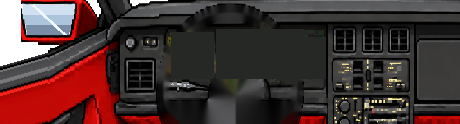
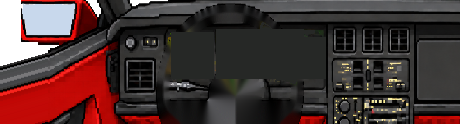
Retrovisores externos funcionando (F40, Corvette e viatura)
Novo src/sidemirror.ts: o vidro do retrovisor esquerdo é achado na arte da cabine
pela cor e, no lugar dele, entra a vista para trás pela esquerda: céu, estrada com
as faixas passando conforme a velocidade, o flanco do próprio carro na borda de
dentro (na cor da pintura) e quem vem atrás (rival, trânsito, viatura com o
giroflex), com reflexo do vidro, sombra da moldura e mais escuro à noite.
Vidro do Corvette com cor única para ser reconhecido inteiro.

Claude-Session: https://claude.ai/code/session_01MLD9VR7gkmY4w6a9beZcp6

Changed region(s): [[0.0304, 0.0484, 0.1826, 0.2903]]

diff --git a/src/sidemirror.ts b/src/sidemirror.ts
@@ -1,0 +1,221 @@
+import { CAM_H, CAR_W, POLICE_W, RES, SEG_LEN, TRUCK_W } from './config';
+import { drawCar } from './cars';
+import type { Race } from './race';
+
+// Retrovisor externo do lado do motorista, funcionando: o vidro das cabines desenhadas a partir
+// da arte é encontrado pela cor (claro e azulado, à esquerda do painel) e, no lugar dele, entra
+// a vista para trás pela esquerda: estrada com as faixas passando, o flanco do próprio carro na
+// borda de dentro e quem vem atrás (rival, trânsito, polícia com o giroflex).
+
+interface Glass {
+  x: number; // canto do recorte, em pixels da arte (topo + painel empilhados)
+  y: number;
+  w: number;
+  h: number;
+  mask: HTMLCanvasElement; // vidro em branco, na resolução da tela (RES)
+  edge: HTMLCanvasElement; // contorno interno do vidro (sombra da moldura)
+}
+
+const glasses = new Map<string, Glass | null>();
+let view: HTMLCanvasElement | null = null;
+
+// procura o vidro nas imagens do topo e do painel (as duas empilhadas: topo em cima)
+export function findGlass(key: string, top: HTMLCanvasElement | null, dash: HTMLCanvasElement, maxX: number): Glass | null {
+  if (glasses.has(key)) return glasses.get(key)!;
+  const W = dash.width;
+  const th = top ? top.height : 0;
+  const H = th + dash.height;
+  const all = document.createElement('canvas');
+  all.width = W;
+  all.height = H;
+  const a = all.getContext('2d')!;
+  if (top) a.drawImage(top, 0, 0);
+  a.drawImage(dash, 0, th);
+  const d = a.getImageData(0, 0, W, H).data;
+  const isGlass = new Uint8Array(W * H);
+  for (let y = 0; y < H; y++)
+    for (let x = 0; x < maxX; x++) {
+      const i = (y * W + x) * 4;
+      const r = d[i], g = d[i + 1], b = d[i + 2];
+      if (d[i + 3] > 0 && Math.min(r, g, b) > 140 && b >= r - 8) isGlass[y * W + x] = 1;
+    }
+  // maior mancha ligada (o vidro); pequenas manchas claras do painel ficam de fora
+  const lab = new Int32Array(W * H);
+  let best = 0, bestN = 0, id = 0;
+  const stack: number[] = [];
+  for (let p = 0; p < W * H; p++) {
+    if (!isGlass[p] || lab[p]) continue;
+    id++;
+    let n = 0;
+    stack.push(p);
+    lab[p] = id;
+    while (stack.length) {
+      const q = stack.pop()!;
+      n++;
+      const qx = q % W, qy = (q - qx) / W;
+      for (let dy = -1; dy <= 1; dy++)
+        for (let dx = -1; dx <= 1; dx++) {
+          const nx = qx + dx, ny = qy + dy;
+          if (nx < 0 || ny < 0 || nx >= W || ny >= H) continue;
+          const nq = ny * W + nx;
+          if (isGlass[nq] && !lab[nq]) {
+            lab[nq] = id;
+            stack.push(nq);
+          }
+        }
+    }
+    if (n > bestN) {
+      bestN = n;
+      best = id;
+    }
+  }
+  if (bestN < 300) {
+    glasses.set(key, null);
+    return null;
+  }
+  let x0 = W, y0 = H, x1 = 0, y1 = 0;
+  for (let p = 0; p < W * H; p++)
+    if (lab[p] === best) {
+      const x = p % W, y = (p - x) / W;
+      x0 = Math.min(x0, x); x1 = Math.max(x1, x);
+      y0 = Math.min(y0, y); y1 = Math.max(y1, y);
+    }
+  const w = x1 - x0 + 1, h = y1 - y0 + 1;
+  const mk = (edgeOnly: boolean) => {
+    const cv = document.createElement('canvas');
+    cv.width = w;
+    cv.height = h;
+    const m = cv.getContext('2d')!;
+    const img = m.createImageData(w, h);
+    for (let y = 0; y < h; y++)
+      for (let x = 0; x < w; x++) {
+        const p = (y + y0) * W + x + x0;
+        if (lab[p] !== best) continue;
+        if (edgeOnly) {
+          const nb = (dx: number, dy: number) => lab[(y + y0 + dy) * W + x + x0 + dx] === best;
+          if (nb(-1, 0) && nb(1, 0) && nb(0, -1) && nb(0, 1)) continue;
+        }
+        img.data.set(edgeOnly ? [0, 0, 0, 120] : [255, 255, 255, 255], (y * w + x) * 4);
+      }
+    m.putImageData(img, 0, 0);
+    return cv;
+  };
+  const g = { x: x0, y: y0 - th, w, h, mask: mk(false), edge: mk(true) };
+  glasses.set(key, g);
+  return g;
+}
+
+// desenha a vista do retrovisor esquerdo sobre o vidro; (ox, oy) = canto da imagem do painel na tela
+export function drawSideMirror(c: CanvasRenderingContext2D, r: Race, g: Glass, ox: number, oy: number, bodyColor: string) {
+  const { w, h } = g;
+  if (!view) view = document.createElement('canvas');
+  if (view.width !== w * RES || view.height !== h * RES) {
+    view.width = w * RES;
+    view.height = h * RES;
+  }
+  const v = view.getContext('2d')!;
+  v.setTransform(RES, 0, 0, RES, 0, 0);
+  v.imageSmoothingEnabled = false;
+  v.globalCompositeOperation = 'source-over';
+  v.clearRect(0, 0, w, h);
+
+  // câmera: no retrovisor, um pouco à esquerda do carro, olhando para trás; o espelho
+  // está virado para fora, então o ponto de fuga fica à direita do centro
+  const hz = Math.round(h * 0.46);
+  const vx = w * 0.52;
+  const f = w * 1.1;
+  const xm = r.x - 700;
+  const sx = (X: number, dz: number) => vx + ((X - xm) * f) / dz / 1.6;
+  const sy = (dz: number) => hz + (CAM_H * f) / dz / 2.6;
+  const night = !!r.def.night;
+  const th = r.theme;
+  v.fillStyle = th.sky[1];
+  v.fillRect(0, 0, w, hz);
+  v.fillStyle = th.sky[0];
+  v.fillRect(0, 0, w, Math.round(hz * 0.4));
+  v.fillStyle = th.ground[1];
+  v.fillRect(0, hz, w, h - hz);
+  // estrada até o horizonte
+  const roadW = r.track.roadW;
+  const near = (CAM_H * f) / 2.6 / (h - hz + 2);
+  const far = 60 * SEG_LEN;
+  const quad = (xa: number, xb: number, color: string) => {
+    v.fillStyle = color;
+    v.beginPath();
+    v.moveTo(sx(xa, near), sy(near));
+    v.lineTo(sx(xb, near), sy(near));
+    v.lineTo(sx(xb, far), sy(far));
+    v.lineTo(sx(xa, far), sy(far));
+    v.closePath();
+    v.fill();
+  };
+  quad(-roadW * 1.15, roadW * 1.15, th.shoulder);
+  quad(-roadW, roadW, th.road);
+  // faixas: bordas contínuas e divisórias tracejadas que passam com a velocidade
+  const lanes = r.track.lanes;
+  const dashLen = SEG_LEN * 3;
+  for (let i = 0; i <= lanes; i++) {
+    const X = -roadW + (2 * roadW * i) / lanes;
+    const edge = i === 0 || i === lanes;
+    const center = lanes === 4 ? i === 2 : i === 1 && lanes === 2;
+    v.fillStyle = center ? '#f2c81e' : '#e8e8e8';
+    const step = SEG_LEN / 2;
+    for (let dz = near; dz < far; dz += step) {
+      const on = edge || center || Math.floor((dz + r.position) / dashLen) % 2 === 0;
+      if (!on) continue;
+      const x0 = sx(X, dz), y0 = sy(dz), x1 = sx(X, dz + step), y1 = sy(dz + step);
+      const lw = Math.max(0.5, (90 * f) / dz / 1.6);
+      v.beginPath();
+      v.moveTo(x0 - lw / 2, y0);
+      v.lineTo(x0 + lw / 2, y0);
+      v.lineTo(x1 + lw / 2, y1);
+      v.lineTo(x1 - lw / 2, y1);
+      v.closePath();
+      v.fill();
+    }
+  }
+  // quem vem atrás (do mais longe para o mais perto)
+  const behind: { dz: number; x: number; w: number; look: Parameters<typeof drawCar>[4] }[] = [];
+  const pz = r.position;
+  for (const t of r.traffic) behind.push({ dz: pz - t.z, x: t.x, w: t.truck ? TRUCK_W : CAR_W, look: { color: t.color, front: t.speed > 0, truck: t.truck, night, model: t.model } });
+  if (r.rival) behind.push({ dz: pz - r.rival.z, x: r.rival.x, w: CAR_W, look: { color: r.rivalCar!.color, rear: r.rivalCar!.rear, front: true, night, paint: r.rivalPaint } });
+  for (const p of r.police) if (p.state !== 'done') behind.push({ dz: pz - p.z, x: p.x, w: POLICE_W, look: { color: '#fff', police: true, siren: p.state === 'chase' || p.state === 'pull', front: true, night } });
+  behind.sort((a, b) => b.dz - a.dz);
+  for (const b of behind) {
+    if (b.dz < near * 0.8 || b.dz > far) continue;
+    // um pouco largo por causa do vidro convexo
+    drawCar(v, sx(b.x, b.dz), sy(b.dz), (b.w * f) / b.dz / 1.6, b.look);
+  }
+  // o espelho escurece um pouco a imagem (mais à noite)
+  v.fillStyle = night ? 'rgba(0,0,24,0.5)' : 'rgba(10,20,40,0.12)';
+  v.fillRect(0, 0, w, h);
+  // flanco do próprio carro na borda de dentro do espelho
+  const fw = Math.max(3, Math.round(w * 0.12));
+  v.fillStyle = bodyColor;
+  v.beginPath();
+  v.moveTo(w - fw, h);
+  v.lineTo(w - fw * 0.55, hz - h * 0.06);
+  v.lineTo(w, hz - h * 0.12);
+  v.lineTo(w, h);
+  v.closePath();
+  v.fill();
+  v.fillStyle = 'rgba(255,255,255,0.35)';
+  v.fillRect(w - fw * 0.5, hz, 0.5, h - hz);
+  v.fillStyle = 'rgba(0,0,0,0.35)';
+  v.fillRect(w - fw, Math.round(h * 0.8), fw, h);
+  // reflexo diagonal do vidro e sombra da moldura
+  v.fillStyle = 'rgba(255,255,255,0.12)';
+  v.beginPath();
+  v.moveTo(w * 0.15, 0);
+  v.lineTo(w * 0.32, 0);
+  v.lineTo(w * 0.08, h);
+  v.lineTo(-w * 0.09, h);
+  v.closePath();
+  v.fill();
+  v.setTransform(1, 0, 0, 1, 0, 0);
+  v.drawImage(g.edge, 0, 0, w * RES, h * RES);
+  v.globalCompositeOperation = 'destination-in';
+  v.drawImage(g.mask, 0, 0, w * RES, h * RES);
+  v.globalCompositeOperation = 'source-over';
+  c.drawImage(view, ox + g.x, oy + g.y, w, h);
+}

diff --git a/src/cockpit.ts b/src/cockpit.ts
@@ -7,6 +7,7 @@ import { clamp, formatTime, lerp, rng, shade } from './util';
 import { F40_WHEEL } from './svg/f40';
 import { spriteAspect, svgSprite } from './svgsprites';
 import { drawWipers, type DashTop } from './wipers';
+import { drawSideMirror, findGlass } from './sidemirror';
 // cabines em pixel art (tools/ref/import_cockpit.py)
 import dashF40Png from './assets/cockpit/f40-dash.png';
 import wheelF40Png from './assets/cockpit/f40-wheel.png';
@@ -134,6 +135,9 @@ function drawCockpitArt(c: CanvasRenderingContext2D, r: Race, dt: number, art: C
     if (dx > 0) c.drawImage(top, 0, 0, 2, TOP_EXT, 0, ART_TOP - TOP_EXT, dx, TOP_EXT);
     c.drawImage(top, dx, ART_TOP - TOP_EXT);
   }
+  // retrovisor externo esquerdo funcionando (onde a arte mostra o vidro dele)
+  const glass = findGlass(art.dash, svgSprite(art.top, DASH_W, TOP_EXT), svgSprite(art.dash, DASH_W, 124) ?? dash, DASH_PAD + 90);
+  if (glass) drawSideMirror(c, r, glass, dx, ART_TOP, color ?? r.car.color);
   if (art.lcd) lcdPanel(c, ox, r, art);
   if (art.odo) odometer(c, ox, r, art.odo);
   if (art.prnd) leverIndicator(c, ox, r, art.prnd);
